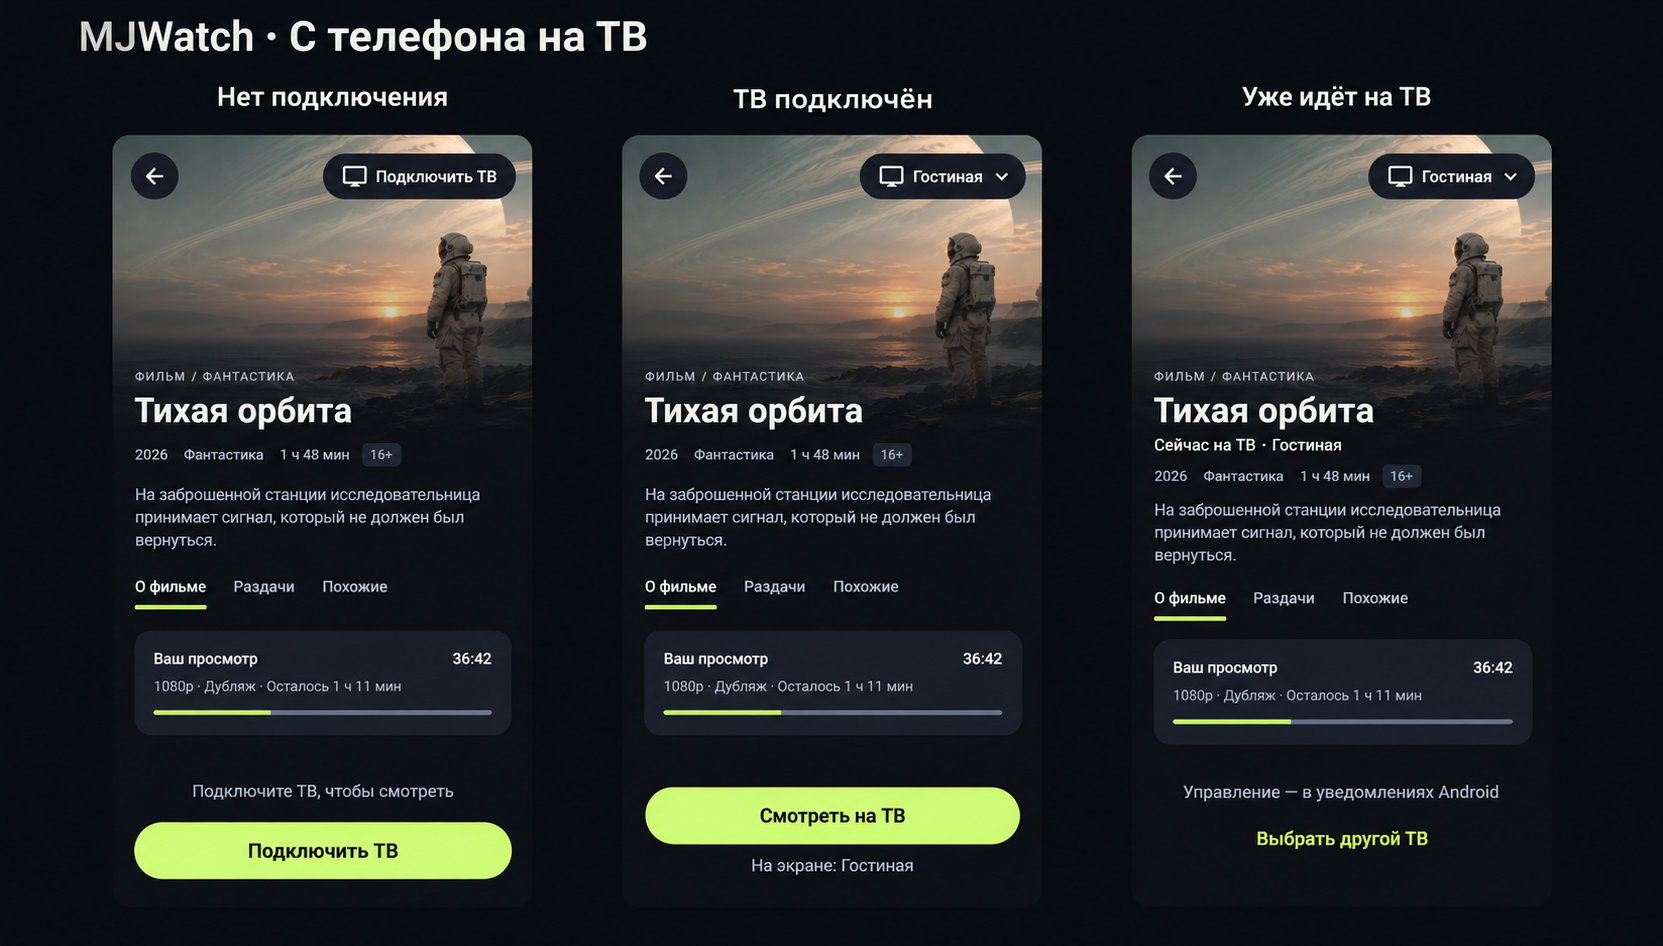
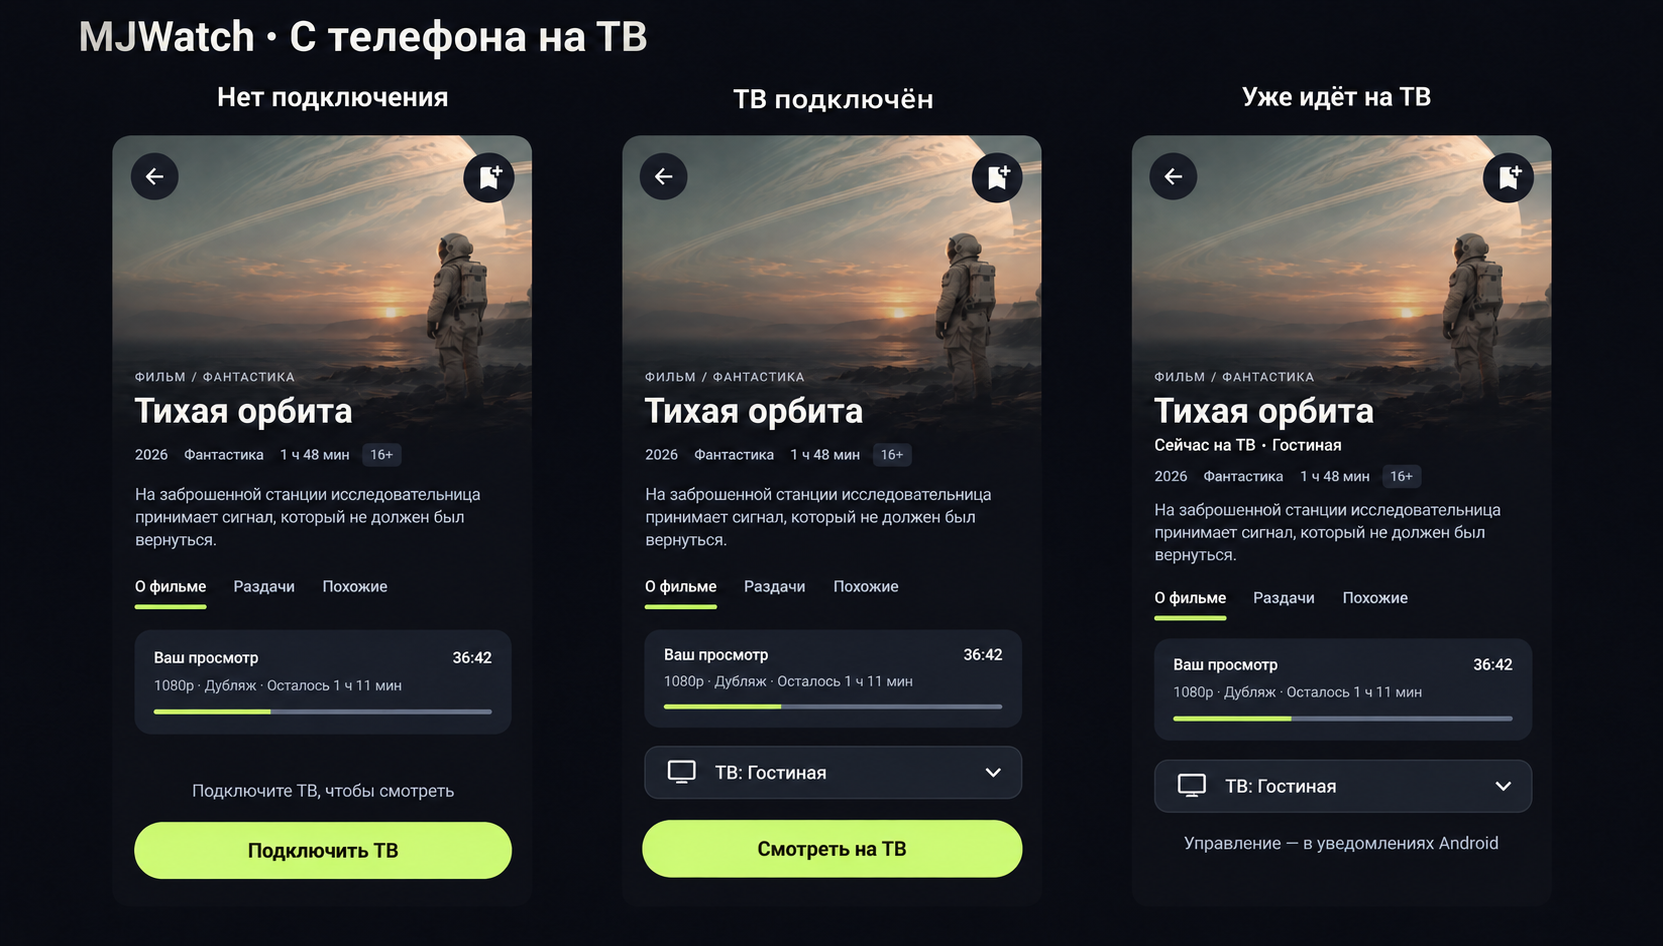
docs: restore bookmark and clarify TV chooser trigger

diff --git a/design/phone-tv-v1/README.md b/design/phone-tv-v1/README.md
@@ -11,6 +11,7 @@
 3. **Несколько ТВ.** Сохраняются все устройства; у телефона только один активный адресат запуска и управления. Разные ТВ могут независимо воспроизводить разные видео. Синхронное воспроизведение на группе ТВ в v1 не входит.
 4. **Переименовывать может сам пользователь.** Общая команда в меню любой своей строки, включая телефон и планшет; административная роль не нужна.
 5. **Внешний вид системных controls определяет Android.** В макетах приложения системную панель не рисуем и не обещаем фирменную карточку. Приложение передаёт метаданные, состояние и разрешённые действия.
+6. **Закладка независима от ТВ.** Кнопка справа сверху сохраняется во всех состояниях карточки, включая отсутствие подключения. Выбор ТВ не занимает её место.
 
 ## Макеты
 
@@ -25,12 +26,12 @@
 | Кадр | Назначение | Переход / результат |
 |---|---|---|
 | M01 Нет подключения | Карточка фильма, описание, сохранённая позиция; вместо запуска «Подключить ТВ» | Открыть контекстный выбор доступного ТВ либо общий список устройств для добавления |
-| M02 ТВ подключён | Имя активного ТВ у карточки; «Смотреть на ТВ» | Выбор релиза/файла при необходимости → проверка адресата → запуск на нём |
+| M02 ТВ подключён | Отдельная строка «ТВ: Гостиная ▾» над кнопкой «Смотреть на ТВ»; закладка справа сверху | Строка открывает M07; кнопка запускает на выбранном ТВ, с выбором релиза/файла при необходимости |
 | M03 Уже идёт на ТВ | Название, текущий ТВ, пояснение об управлении через Android | Никаких дублирующих play/pause/seek/volume; можно выбрать другой ТВ |
 | M04 Все устройства | Общий список, иконки типов, статус, меню каждой строки | ТВ → подключение/сведения; телефон и планшет → сведения, без назначения приёмником |
 | M05 Добавить устройство | Общий существующий сценарий QR/код с другого устройства, поиск локальных ТВ | Проверка → подтверждённая привязка → общий список; добавление не запускает видео |
 | M06 Название устройства | Имя, счётчик, тип и короткий ID | Сохранить / отмена, ошибка не стирает ввод |
-| M07 Где смотреть? | Контекстный sheet только с подходящими ТВ | Выбрать адресата; «Все устройства» ведёт в общий список. Это не отдельный раздел ТВ |
+| M07 Где смотреть? | Контекстный sheet только с подходящими ТВ; открывается по строке выбора ТВ либо кнопке «Подключить ТВ» | Выбрать адресата без запуска видео; «Все устройства» ведёт в общий список. Это не отдельный раздел ТВ |
 | M08 ТВ уже занят | Названия ТВ и текущего видео; предупреждение о замене | Явное подтверждение запуска другого видео; отмена сохраняет текущее |
 | M09 Потеря соединения | Сведения о потерянной связи, повтор, другой адресат | Вернуть актуальное состояние с ТВ; не утверждать, что просмотр остановлен |
 
@@ -38,7 +39,17 @@
 
 ## Размещение в существующем приложении
 
-Вход через существующие настройки аккаунта / список устройств. Если устройство работает в direct-режиме, тот же общий список доступен из настроек подключений, без обязательного создания аккаунта. Не добавлять нижнюю вкладку или TV-only раздел. Вход в контекстный выбор экрана — из индикатора назначения на карточке/в шапке каталога и действия подключения.
+Вход через существующие настройки аккаунта / список устройств. Если устройство работает в direct-режиме, тот же общий список доступен из настроек подключений, без обязательного создания аккаунта. Не добавлять нижнюю вкладку или TV-only раздел.
+
+На карточке справа сверху всегда остаётся закладка («Добавить в Моё» / «Удалить из Моего»), слева — «Назад». Закладка меняет только сохранение фильма и не открывает выбор экрана; её состояние не зависит от подключения ТВ.
+
+Триггеры меню «Где смотреть?» зафиксированы явно:
+
+- С подключённым ТВ — отдельная строка с иконкой ТВ, текстом «ТВ: Гостиная» и chevron вниз, непосредственно над кнопкой запуска; вся строка — цель касания ≥48dp. Она остаётся доступна и при уже идущем просмотре.
+- Без подключённого ТВ — кнопка «Подключить ТВ» вместо запуска. Если подходящих устройств нет, в sheet показывается пустое состояние с переходом «Все устройства» → «Добавить устройство».
+- «Смотреть на ТВ» отправляет запуск на уже выбранный адресат и не открывает выбор устройства повторно. Если подключение потеряно, вместо отправки показывается подключение/восстановление.
+
+Выбор устройства закрывает sheet и обновляет строку назначения, но не запускает видео. Back/свайп закрывает sheet, сохраняя прежний выбор; фокус возвращается к открывшей его строке или кнопке. Нажатие закладки, выбор адресата и запуск — три независимых действия.
 
 Главная / Поиск / Моё / Настройки сохраняются. В поиске, истории, продолжении просмотра, списках серий, файлов и раздач нельзя обойти проверку подключения. Без активного ТВ каталог, описание, поиск и избранное доступны; кнопки «Смотреть», «Продолжить», play-иконки и прямые действия запуска скрыты. На их месте одно понятное действие подключения. Переход в источники допустим для ознакомления, но финальный запуск также закрыт до соединения. При потере связи уже открытые CTA немедленно становятся недоступны с пояснением.
 

diff --git a/design/phone-tv-v1/ASSETS.md b/design/phone-tv-v1/ASSETS.md
@@ -4,10 +4,12 @@
 
 | Файл | Содержание | Ключевые требования промпта |
 |---|---|---|
-| 01-viewing-states.png | Карточка: нет ТВ / подключён / уже идёт | Сохранить исходную карточку; без запуска до подключения; имя адресата; без собственного транспорта |
+| 01-viewing-states.png | Карточка: нет ТВ / подключён / уже идёт | Закладка справа сверху во всех кадрах; отдельная строка ТВ над запуском; без запуска до подключения и собственного транспорта |
 | 02-unified-devices.png | Общие устройства / добавление / переименование | Один список всех типов, разные Material-иконки; QR/код; пользовательское имя 1–32 символа |
-| 03-target-and-recovery.png | Контекстный выбор / замена видео / потеря связи | Несколько ТВ, offline, подтверждение занятого приёмника; нет рисованной системной панели Android |
+| 03-target-and-recovery.png | Контекстный выбор / замена видео / потеря связи | Явная подпись триггера «Нажатие на строку «ТВ: Гостиная»»; несколько ТВ, offline, подтверждение занятого приёмника; нет рисованной системной панели Android |
 
 Отклонённые ранние листы с отдельным меню ТВ и нарисованной Android-панелью не включены в поставку. Финальные листы просмотрены после генерации: подписи и состояние назначения читаются, собственного транспорта нет, общий список включает телефон и планшет. Это визуальная проверка растров, не runtime QA.
+
+Правка 17.11.2026 по замечанию пользователя: листы 01 и 03 отредактированы встроенным ImageGen с сохранением композиции. Промпты правки: вернуть независимую закладку в правый верхний угол всех карточек; убрать TV chips из этого угла; в подключённых состояниях разместить одну строку «ТВ: Гостиная» с chevron непосредственно над запуском; убрать дублирующий выбор ТВ; на листе sheet подписать триггер и вход без подключения. Проверено визуально: три кнопки закладок на листе 01, две отдельные строки выбора, запуск отдельно; на листе 03 триггер подписан, закладки сохранены.
 
 Ограничения: ImageGen-растр не является редактируемым Figma-файлом или pixel-perfect спецификацией. Размещение системных панелей не проектируется. Референсные размеры экранов и требования адаптации заданы в README; нативный UI должен поддерживать реальный viewport, доступность и IME. При расхождении текста изображения с документом приоритет у README и ACCEPTANCE.

diff --git a/design/phone-tv-v1/ACCEPTANCE.md b/design/phone-tv-v1/ACCEPTANCE.md
@@ -27,5 +27,8 @@
 | A21 | Обход всех экранов телефона | Нет собственных кнопок pause/play/seek/volume для текущей ТВ-сессии и нет отдельного mini-player с транспортом |
 | A22 | TalkBack, 200% fontScale, tablet, TV D-pad | Тип/статус доступны голосом, 48dp цели, CTA над IME, нет обрезания, Back возвращает фокус |
 | A23 | Самостоятельный просмотр на ТВ | Сохраняется работа физическим пультом; телевизор не требует подключения к самому себе |
+| A24 | Закладка без ТВ / с ТВ / во время просмотра | Кнопка справа сверху доступна во всех состояниях; добавляет/удаляет фильм из «Моего», не выбирает ТВ и не запускает видео |
+| A25 | Нажать строку «ТВ: Гостиная ▾» либо «Подключить ТВ» без соединения | Открывается «Где смотреть?»; выбор меняет адресат без запуска; Back/свайп сохраняет прежний выбор и возвращает фокус |
+| A26 | Нажать «Смотреть на ТВ» при действующем соединении | Видео запускается на выбранном ТВ без повторного открытия выбора устройства; закладка и выбор ТВ не подменяют запуск |
 
 Матрица устройства/версии и доказательства A15–A20 обязательны перед заявлением «как у Cast». Растровые макеты и unit tests этого не подтверждают.
